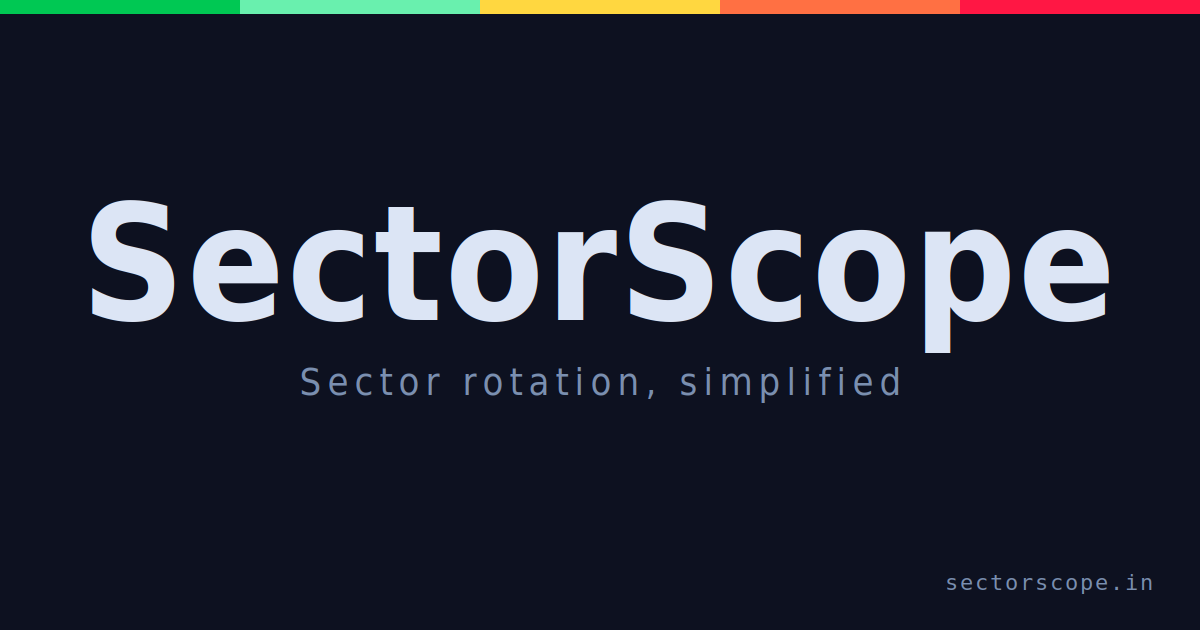
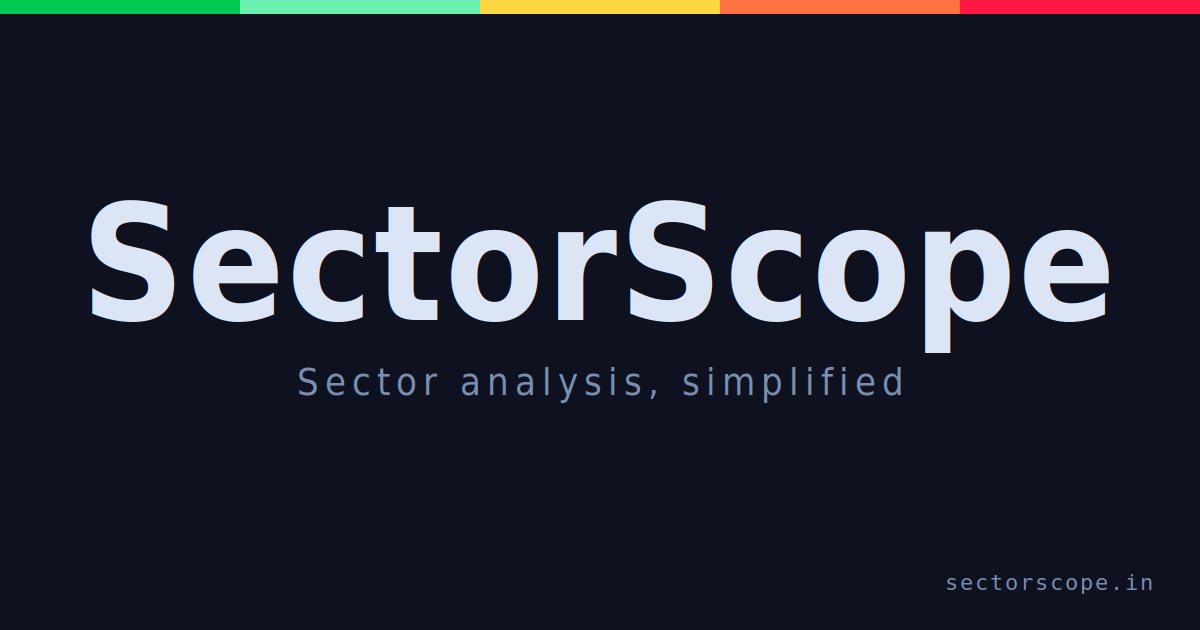
Meta related changes

Changed region(s): [[0.2467, 0.573, 0.7708, 0.6333]]

diff --git a/index.html b/index.html
@@ -7,9 +7,9 @@
 <link rel="icon" type="image/svg+xml" href="/assets/favicon.svg">
 <link rel="icon" type="image/x-icon" href="/assets/favicon.ico">
 <link rel="apple-touch-icon" href="/assets/apple-touch-icon.png">
-<meta name="description" content="Track P/E and P/B percentile rankings across 10 NSE sectors plus Nifty 50. Spot cheap and expensive sectors at a glance.">
-<meta property="og:title" content="SectorScope — Indian sector valuations">
-<meta property="og:description" content="Track P/E and P/B percentile rankings across 10 NSE sectors plus Nifty 50. Spot cheap and expensive sectors at a glance.">
+<meta name="description" content="Track valuation metrics and see which NSE sectors are cheap or expensive — ranked against history. Backtests, alerts, AI summaries built in.">
+<meta property="og:title" content="SectorScope — Sector analysis, simplified">
+<meta property="og:description" content="Track valuation metrics and see which NSE sectors are cheap or expensive — ranked against history. Backtests, alerts, AI summaries built in.">
 <meta property="og:image" content="https://sectorscope.in/assets/og-image.png">
 <meta property="og:image:width" content="1200">
 <meta property="og:image:height" content="630">
@@ -58,8 +58,8 @@ body::before{content:'';position:fixed;inset:0;pointer-events:none;z-index:0;bac
 /* ── HEADER ── */
 header{position:sticky;top:0;z-index:200;padding:8px 24px;display:flex;flex-wrap:wrap;align-items:center;gap:8px 10px;justify-content:space-between;background:rgba(8,11,18,.92);backdrop-filter:blur(20px);border-bottom:1px solid var(--bdr);transition:background .3s}
 html.light header{background:rgba(238,241,248,.94)}
-.h-brand{flex:1 1 auto;min-width:0}
-.h-title{font-family:var(--ttl);font-size:1.55rem;letter-spacing:2.5px;line-height:1;background:linear-gradient(100deg,var(--txt) 40%,var(--sub) 100%);-webkit-background-clip:text;-webkit-text-fill-color:transparent;background-clip:text}
+.h-brand{flex:1 1 auto;min-width:0;display:flex;flex-direction:column;align-items:flex-start;gap:4px}
+.h-brandmark{display:block;height:1.7rem;width:auto;color:var(--txt)}
 .h-sub{font-family:var(--mono);font-size:.5rem;color:var(--ghost);letter-spacing:1.2px;text-transform:uppercase;display:none;margin-top:2px}
 @media(min-width:560px){.h-sub{display:block}}
 .h-updated{font-family:var(--mono);font-size:.46rem;color:var(--ghost);letter-spacing:.8px;margin-top:1px;display:none}
@@ -107,7 +107,7 @@ html.light .theme-pip{transform:translateX(22px);background:#f59e0b}
 /* mobile: brand + right on row 1, tabs wrap to row 2 full-width */
 @media(max-width:680px){
   header{padding:10px 14px;row-gap:10px}
-  .h-title{font-size:1.35rem;letter-spacing:2px}
+  .h-brandmark{height:1.5rem}
   .page-tabs{order:3;flex:1 1 100%;justify-content:stretch}
   .ptab{flex:1;text-align:center;padding:6px 8px}
 }
@@ -951,8 +951,15 @@ html.light .cm-paywall{background:rgba(238,241,248,.7)}
 <body>
 <header>
   <div class="h-brand">
-    <div class="h-title">SectorScope</div>
-    <div class="h-sub">Sectoral Analysis made easy</div>
+    <svg class="h-brandmark" viewBox="0 0 175 36" role="img" aria-label="SectorScope">
+      <text x="0" y="26" font-family="Bebas Neue, Barlow Condensed, sans-serif" font-size="28" letter-spacing="2.5" fill="currentColor">SectorScope</text>
+      <rect x="0"  y="31" width="18" height="3" fill="#00c853"/>
+      <rect x="18" y="31" width="18" height="3" fill="#69f0ae"/>
+      <rect x="36" y="31" width="18" height="3" fill="#ffd740"/>
+      <rect x="54" y="31" width="18" height="3" fill="#ff7043"/>
+      <rect x="72" y="31" width="18" height="3" fill="#ff1744"/>
+    </svg>
+    <div class="h-sub">Sector analysis, simplified</div>
   </div>
   <nav class="page-tabs" role="tablist" aria-label="Page navigation">
     <button class="ptab active" id="tab-dash" role="tab" aria-selected="true" onclick="showPage('dashboard')">Dashboard</button>
